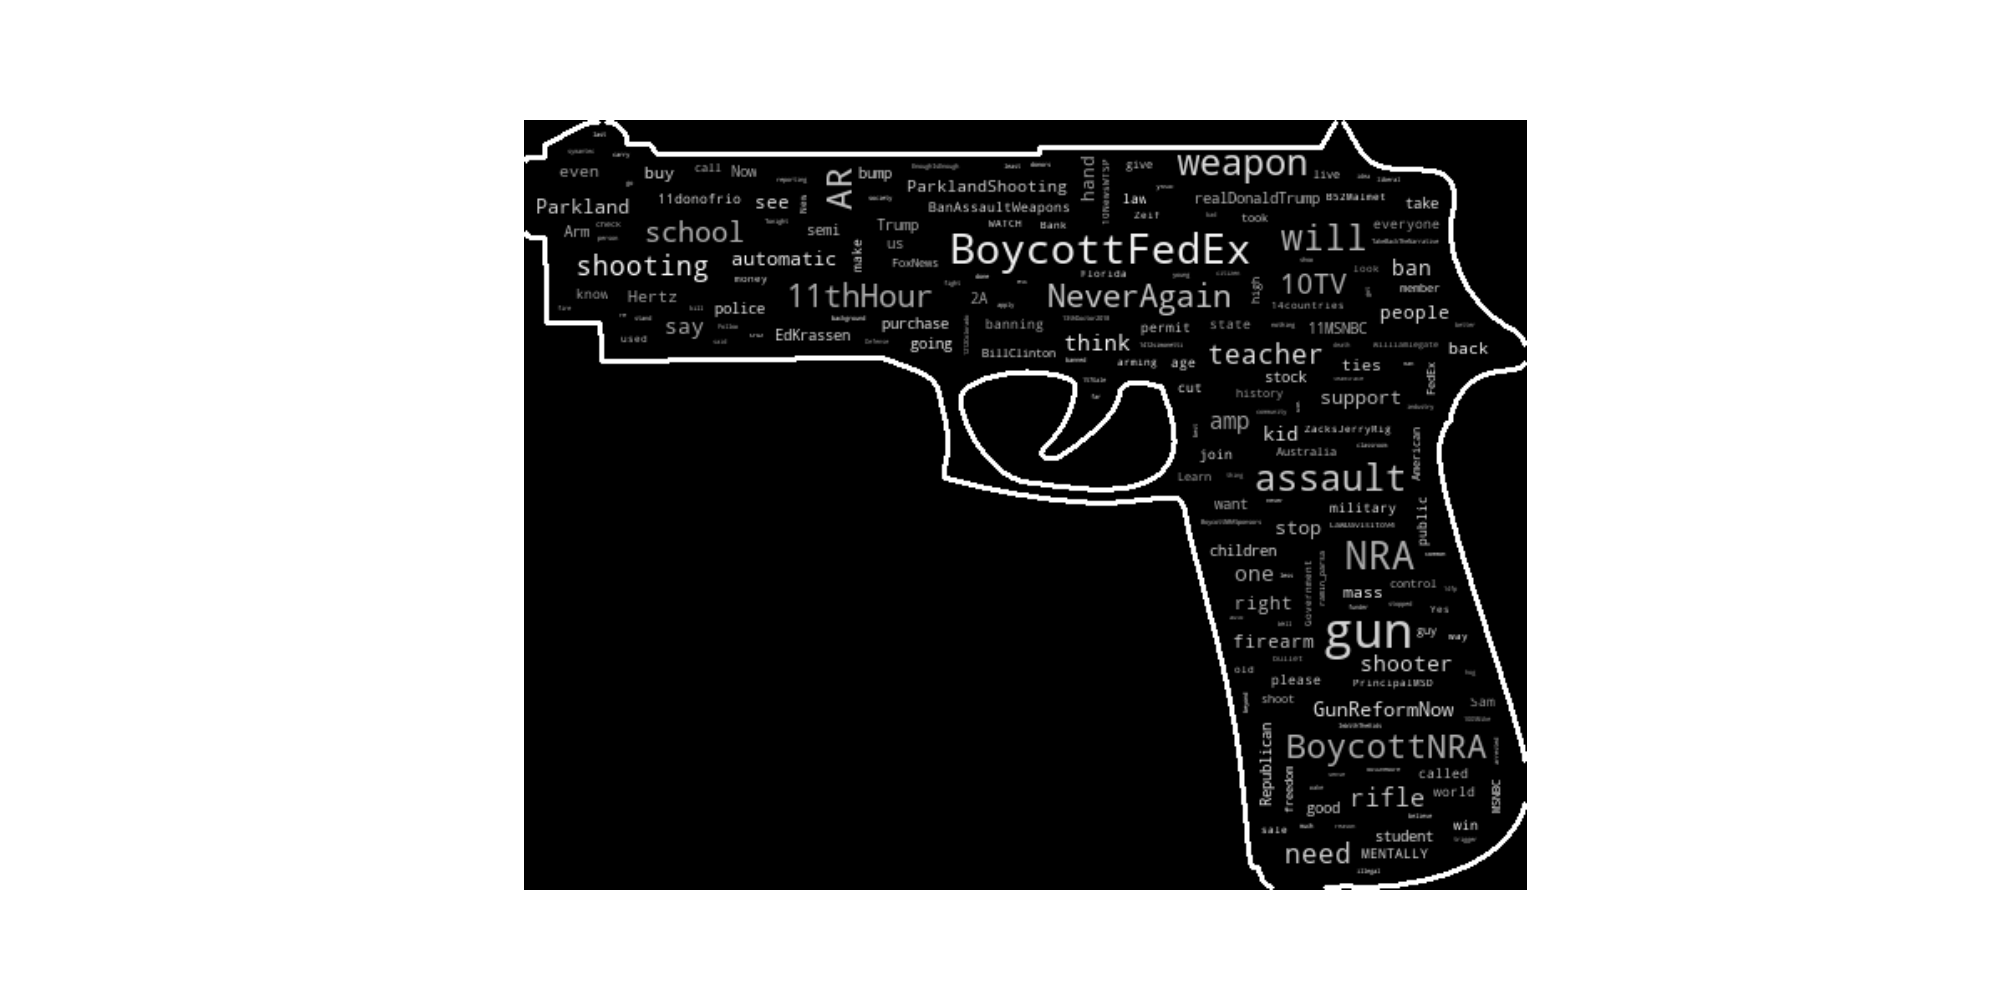
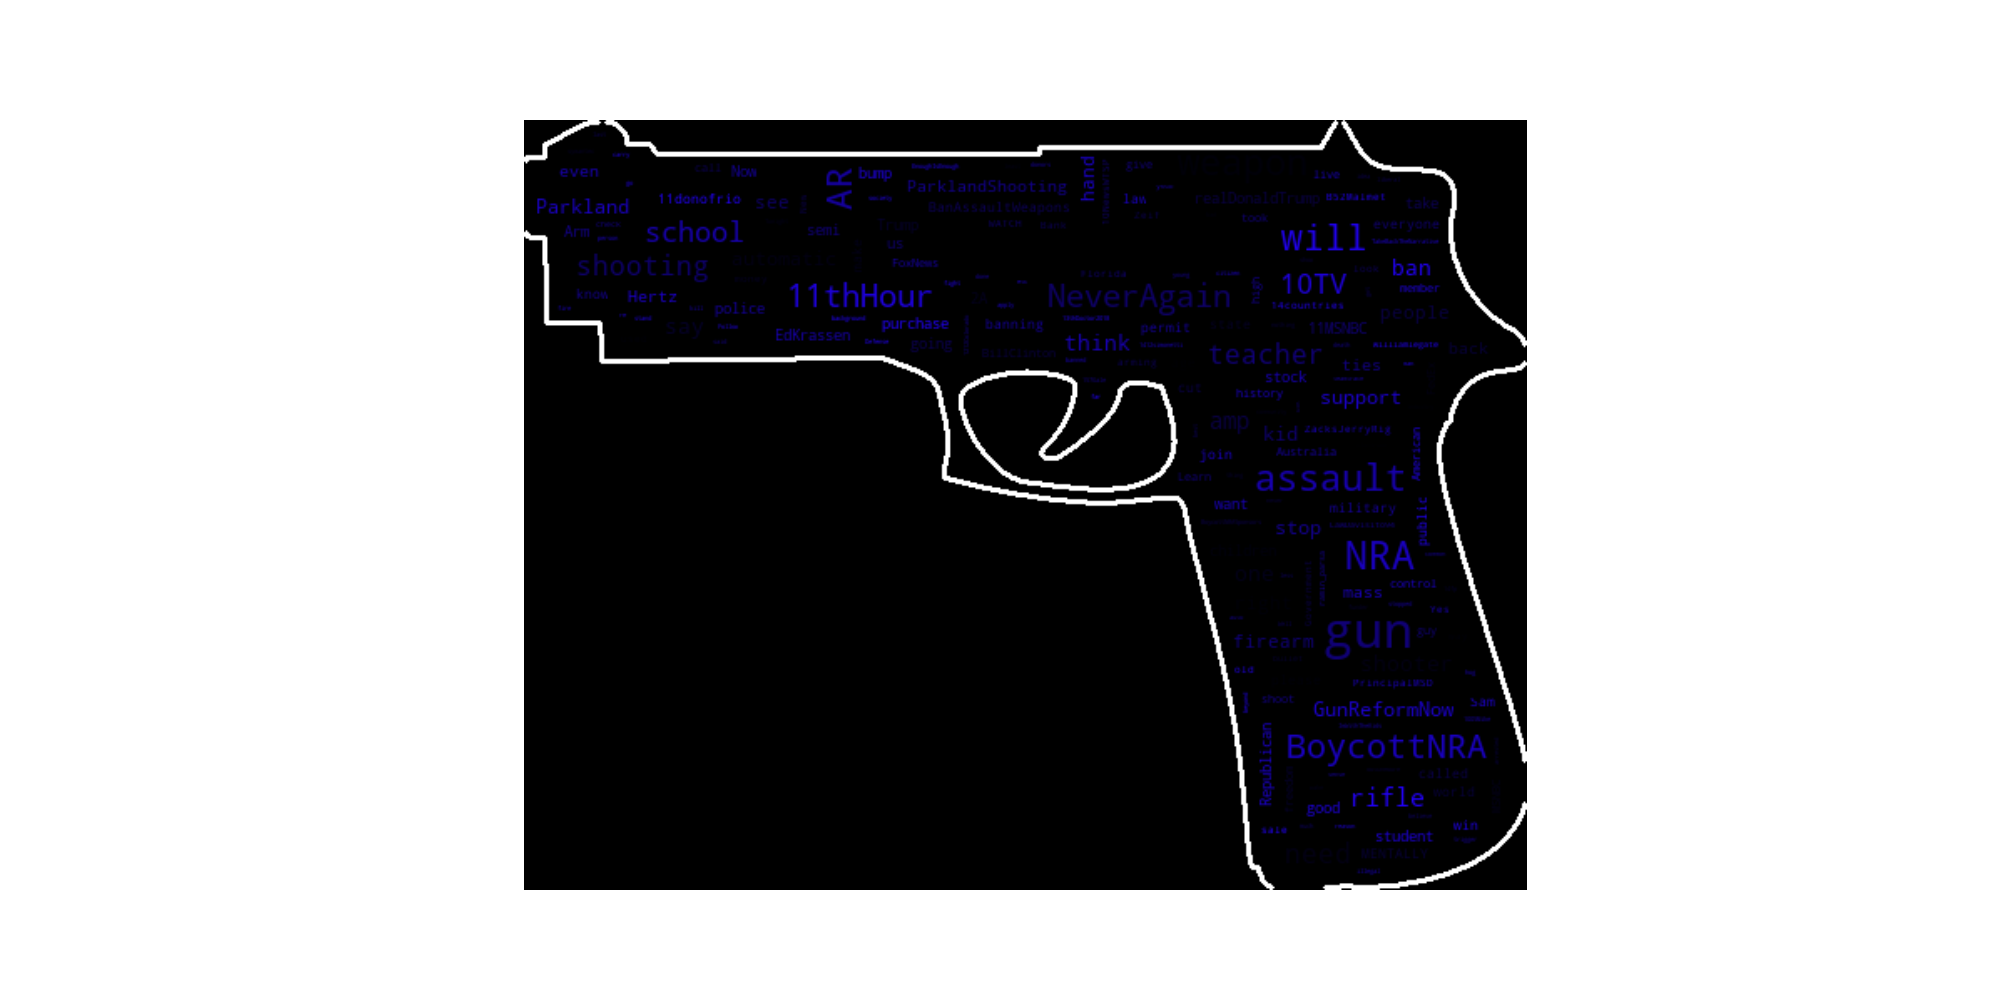
adds color to tagclouds

Changed region(s): [[0.248, 0.155, 0.775, 0.868]]

diff --git a/codebase/tag_cloud.py b/codebase/tag_cloud.py
@@ -4,9 +4,13 @@ from PIL import Image
 import random
 from wordcloud import WordCloud, STOPWORDS, ImageColorGenerator
 
-def grey_color_func(word, font_size, position, orientation, random_state=None,
+def red_color_func(word, font_size, position, orientation, random_state=None,
                     **kwargs):
-    return "hsl(0, 0%%, %d%%)" % random.randint(60, 100)
+    return "hsl(0, 100%%, %d%%)" % random.randint(60, 100)
+
+def blue_color_func(word, font_size, position, orientation, random_state=None,
+                    **kwargs):
+    return "hsl(248, 100%%, %d%%)" % random.randint(60, 100)
 
 stopwords = list(STOPWORDS)
 file = open("../dataset/left_tweet_dataset.tsv")
@@ -26,7 +30,7 @@ wordcloud = WordCloud(max_font_size=30, max_words=1000, stopwords=set(stopwords)
 						random_state=1, background_color="black", collocations=False, contour_width=3,
 						contour_color='white').generate(data)
 plt.figure(figsize=[20,10])
-plt.imshow(wordcloud.recolor(color_func=grey_color_func,random_state=3), interpolation='bilinear')
+plt.imshow(wordcloud.recolor(color_func=blue_color_func,random_state=3), interpolation='bilinear')
 plt.axis("off")
+plt.savefig("../images/right.png", format="png")
 plt.show()
-plt.savefig("../images/left.png")
